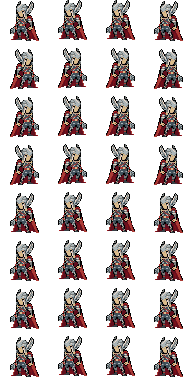
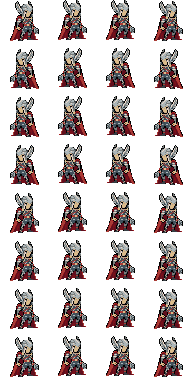
Thor: su dibujo original mira a la derecha (solo Hulk y Spider-Man miran a la izquierda)
Claude-Session: https://claude.ai/code/session_01NKXfdGR8G1iTrYkbieCHGV

diff --git a/CLAUDE.md b/CLAUDE.md
@@ -38,6 +38,6 @@ Juego web 2D estilo Vampire Survivors con héroes de Marvel. Lo desarrolla un eq
 - Oro y progreso permanente: `src/meta/` (guardado, mejoras permanentes) · balance del oro en `GOLD`, `BREAKABLE_PROPS` y `META` de `gameplayConfig.ts`
 - Interfaz: `src/ui/` (`UiButton`, `UpgradeCard`, `drawPanel` y escalas en `uiLayout.ts`)
 - Héroes: `src/characters/` (registro en `registry.ts`, rarezas en `rarity.ts`; para sumar uno: definición + sprites en `HEROES` del generador + entrada en el registro; su precio sale de su `rarity`) · Escenas: `src/scenes/` (Boot, Menu, Game, Hud)
-- Arte de héroes: Iron Man sale de `tools/ironman-reference.mjs`; Capitán y Thor están calcados de las imágenes de referencia de Santi (`tools/hero-trace-*.mjs`, 40 de alto, un solo dibujo que se espeja según hacia dónde mira el original (`DRAWN_FACES_LEFT`: Thor, Hulk y Spider-Man miran a la izquierda; Capitán e Iron Man a la derecha; quieto todos miran a la derecha); cuadros de 48×48, suelo en (24, 41), `DRAWN_HEROES` en el generador); Spider-Man y Hulk también (mismo método). Todos los héroes usan cuadros de 48×48.
+- Arte de héroes: Iron Man sale de `tools/ironman-reference.mjs`; Capitán y Thor están calcados de las imágenes de referencia de Santi (`tools/hero-trace-*.mjs`, 40 de alto, un solo dibujo que se espeja según hacia dónde mira el original (`DRAWN_FACES_LEFT`: Hulk y Spider-Man miran a la izquierda; Capitán, Thor e Iron Man a la derecha; quieto todos miran a la derecha); cuadros de 48×48, suelo en (24, 41), `DRAWN_HEROES` en el generador); Spider-Man y Hulk también (mismo método). Todos los héroes usan cuadros de 48×48.
 - Íconos de la tienda: `tools/meta-icons.mjs` (dibujados con código, 16×16), `tools/meta-icons-custom.mjs` (a mano, 16×16) y `tools/meta-icons-custom32.mjs` (a mano, 32×32); la hoja final usa cuadros de 32×32 (`SHEET_CELL`, `META_ITEM_SIZE`).
 - Detalles de sprites y cómo agregar animaciones o personajes: `README.md`
